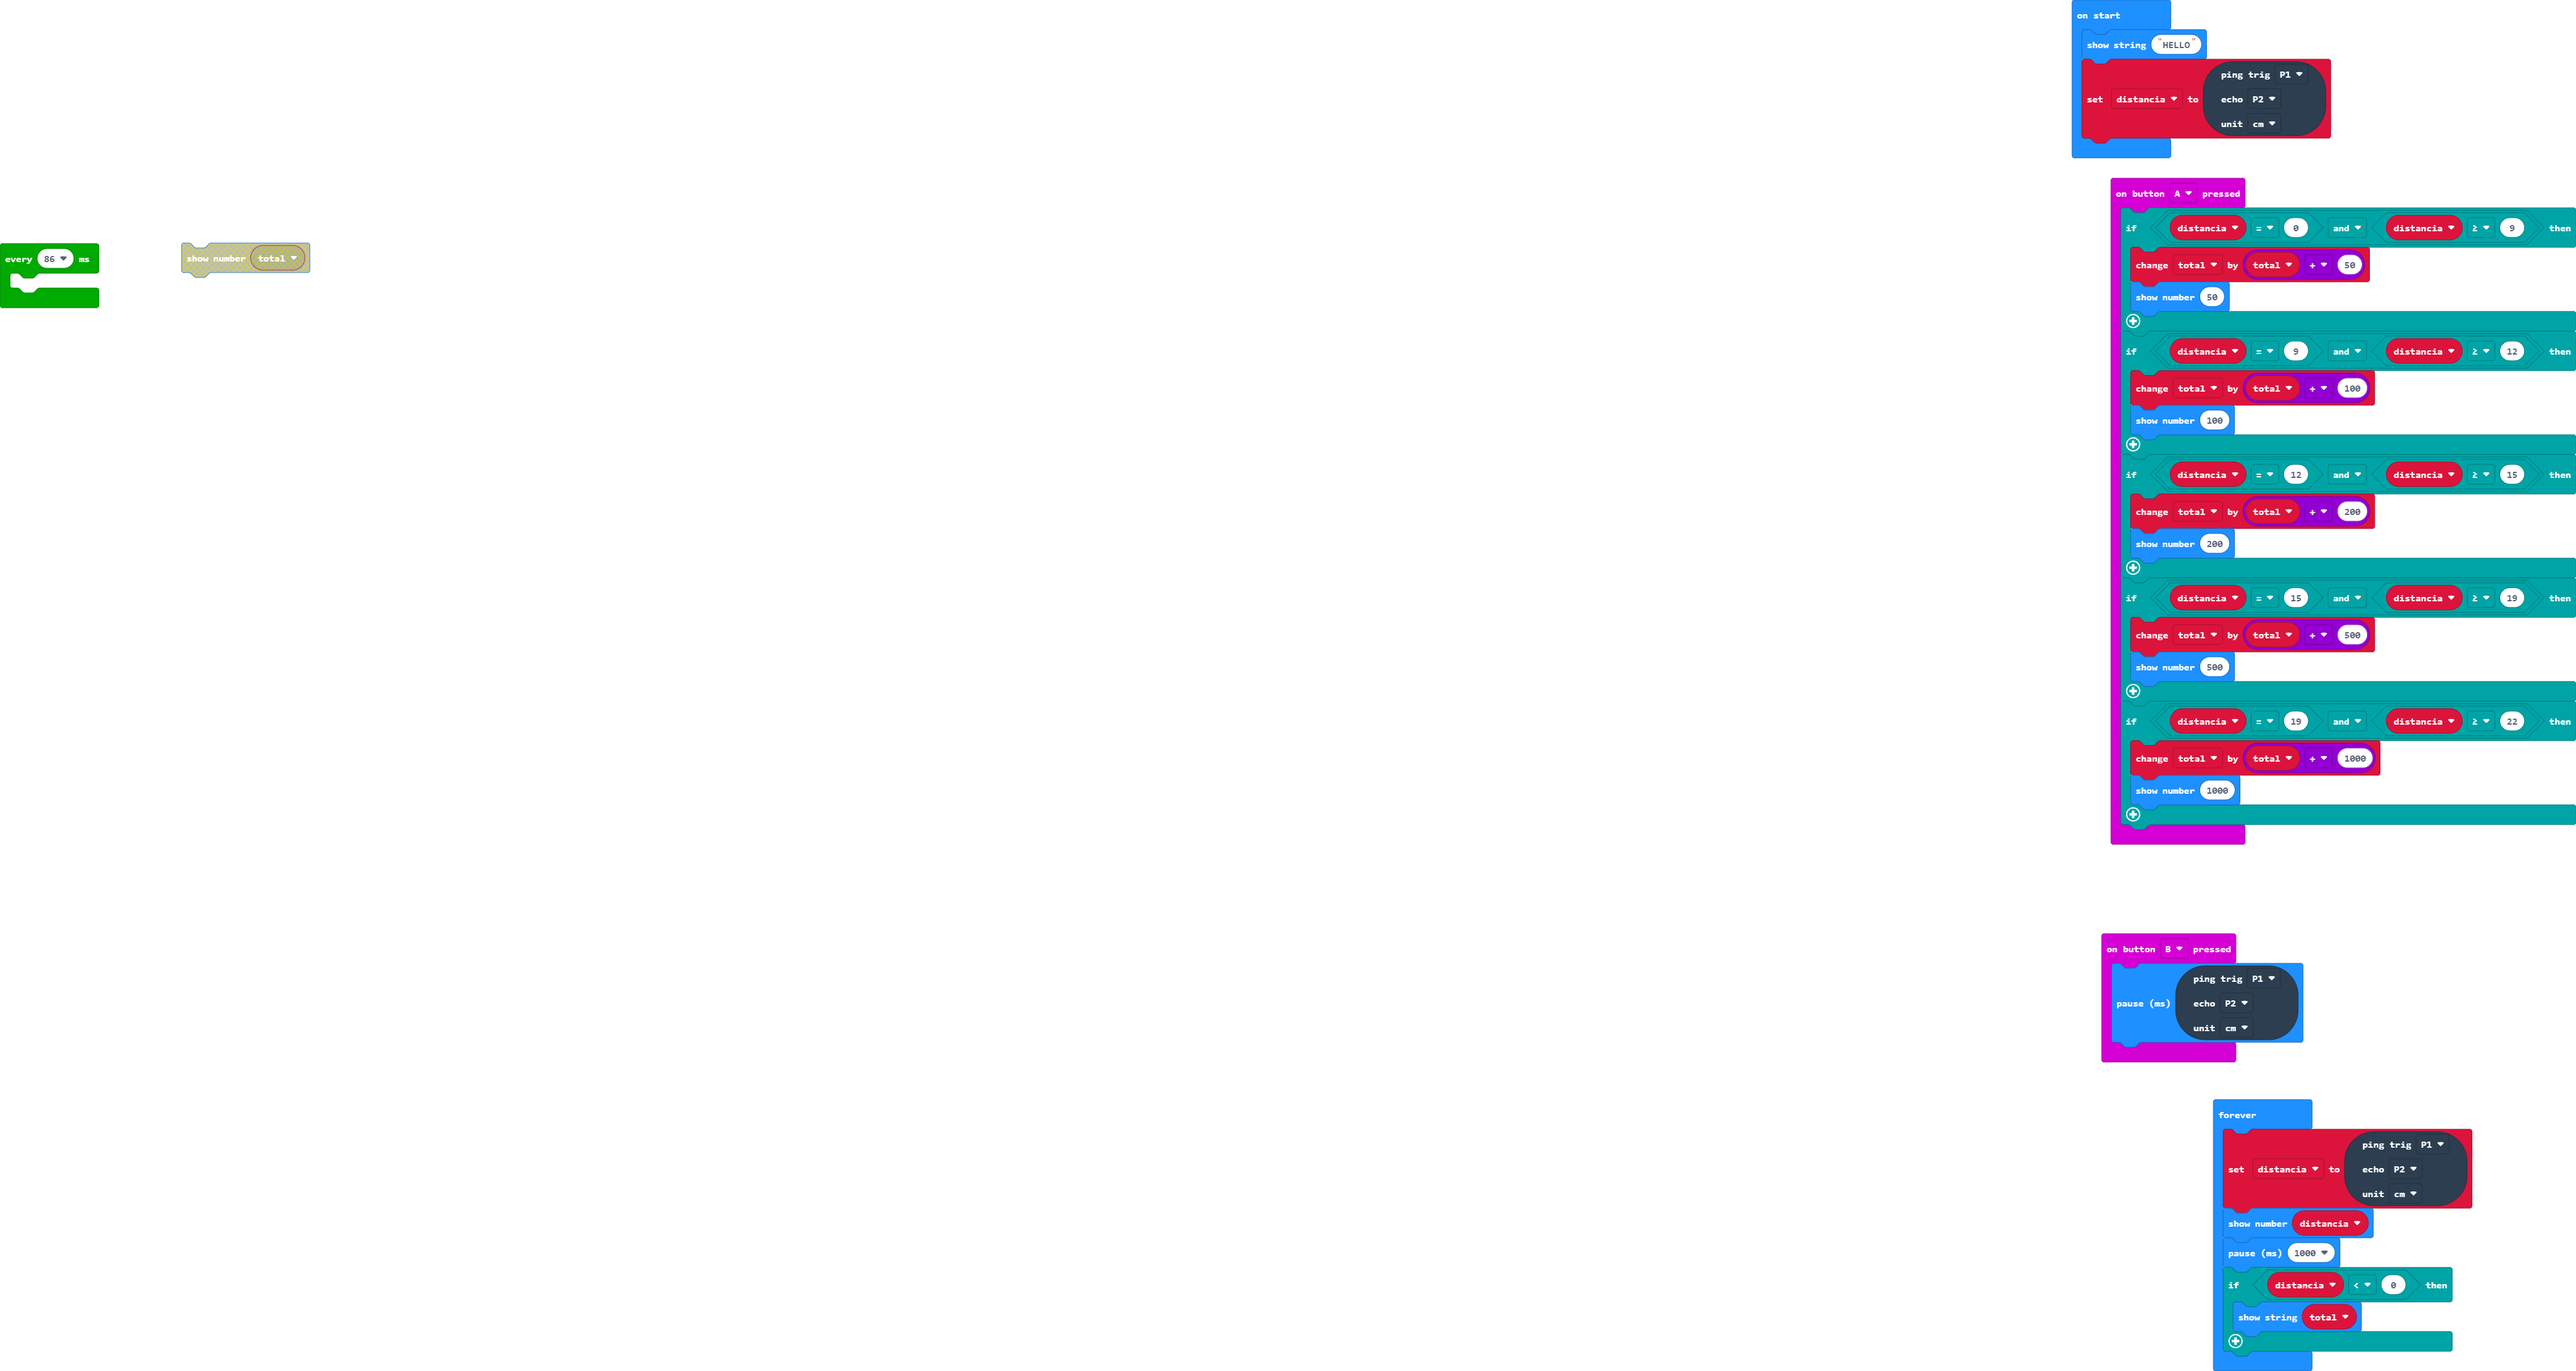
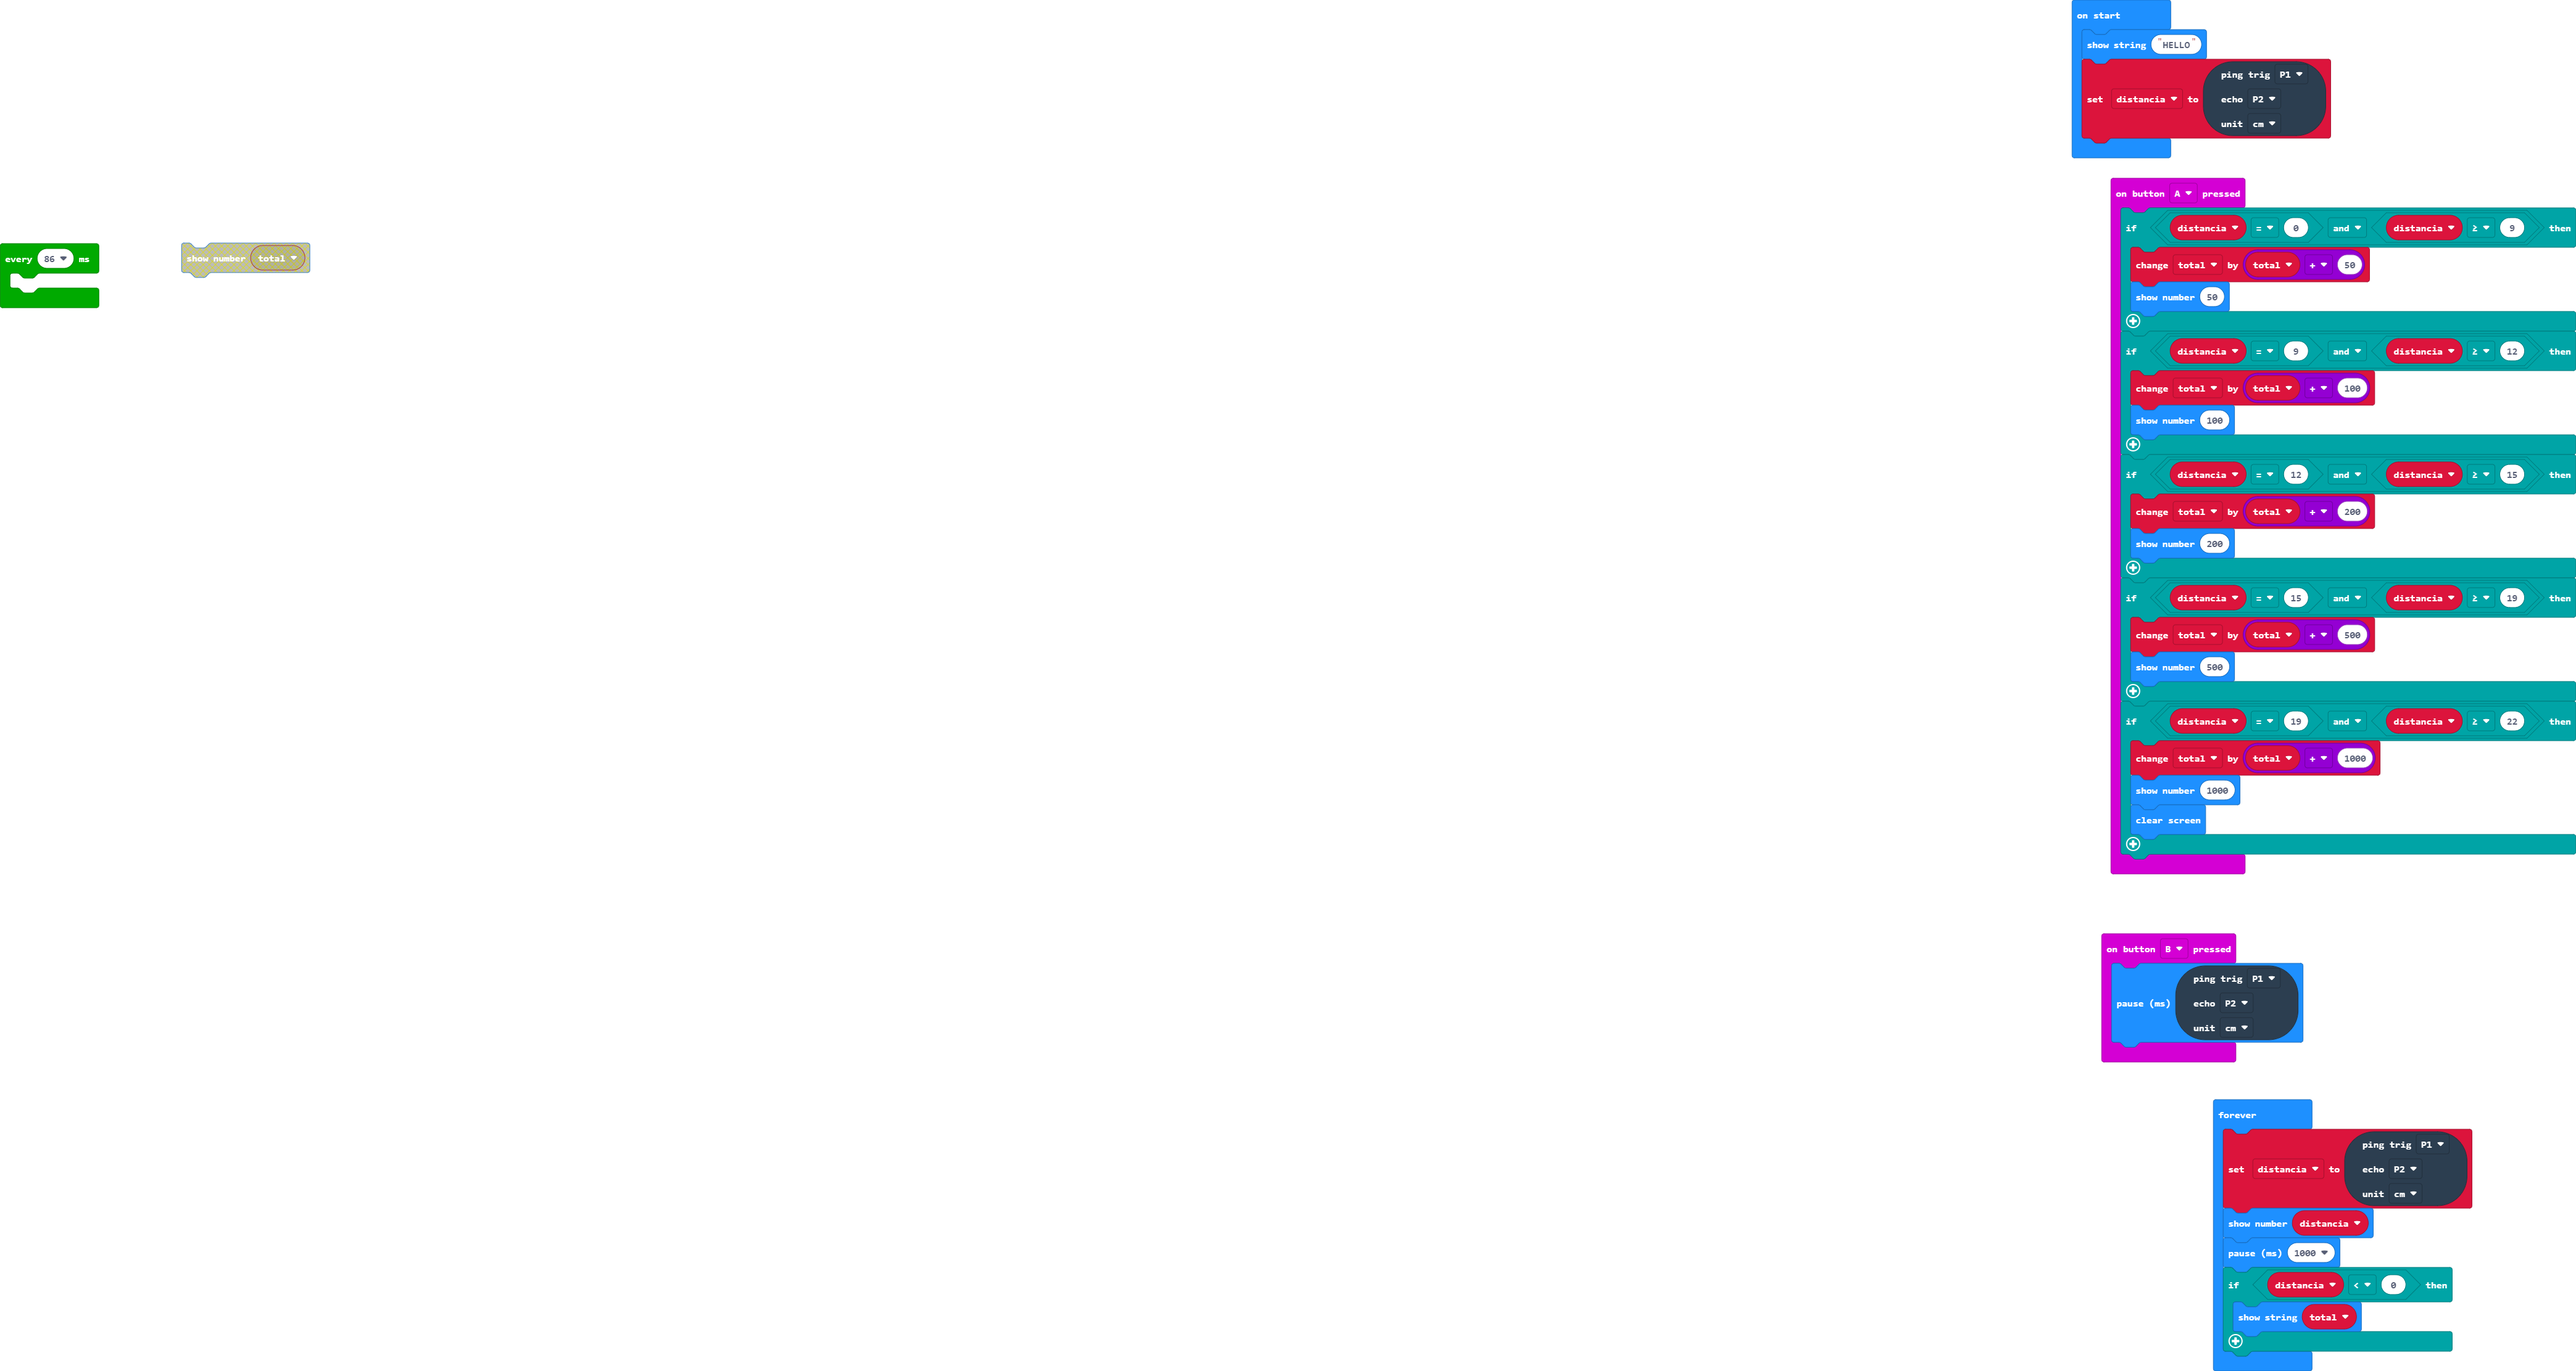
Update main.blocks, main.ts

Changed region(s): [[0.8096, 0.5587, 1.0, 0.6518]]

diff --git a/main.ts b/main.ts
@@ -18,6 +18,7 @@ input.onButtonPressed(Button.A, function () {
     if (distancia == 19 && distancia >= 22) {
         total += total + 1000
         basic.showNumber(1000)
+        basic.clearScreen()
     }
 })
 input.onButtonPressed(Button.B, function () {
